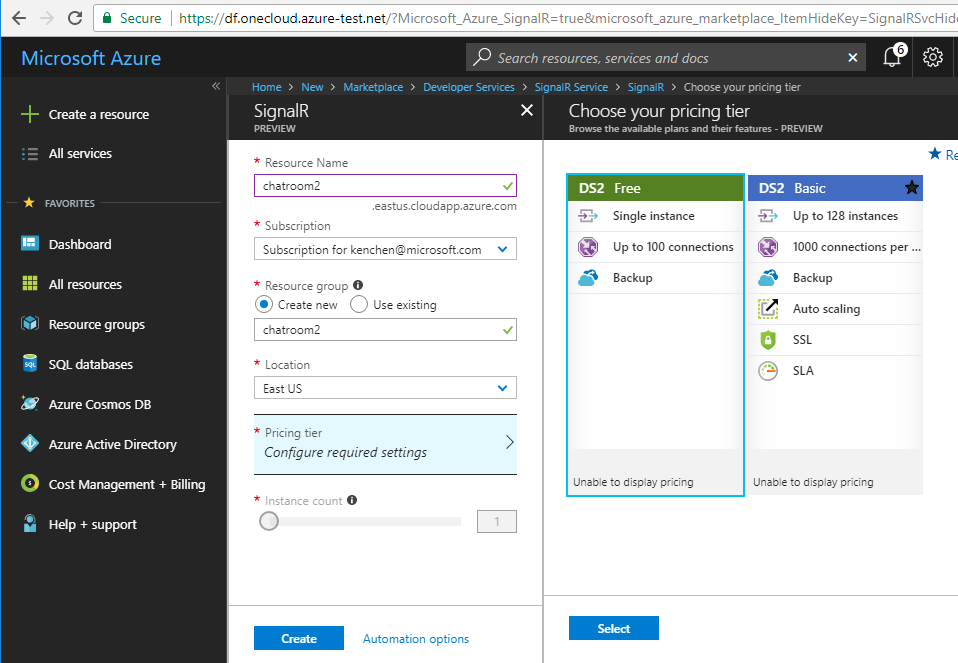
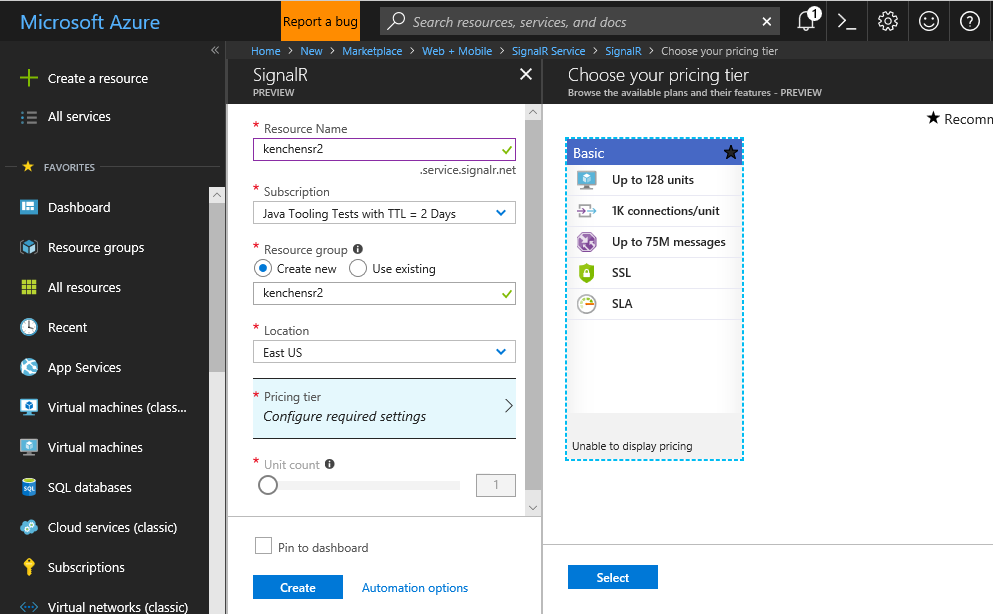
update images to prod environment

diff --git a/tutorials/chat-room-service.md b/tutorials/chat-room-service.md
@@ -4,11 +4,9 @@ In last tutorial you have learned how to use SignalR Core to build a chat room a
 
 ## Create a SignalR Service
 
-> [TODO] The screenshots below are based on dogfooding environment. To be replaced with production screenshots later.
-
 First let's create a SignalR service on Azure.
 
-1. Open Azure portal, click "Create a resource" and find "SignalR Service".
+1. Open Azure portal, click "Create a resource" and find "SignalR Service" in "Web + Mobile".
 
    ![signalr-1](images/signalr-1.png)
 
@@ -22,6 +20,8 @@ First let's create a SignalR service on Azure.
    
    * Free: which can handle 100 connections at the same time and can send and receive one million messages in a month.
    * Basic: which has 1000 concurrent connections and 75 millions message per month limit for *one unit*. You can scale up to 10 units for a single service instance and you'll be charged by the number of units you use.
+
+   > In private preview, only basic tier with one unit is supported.
 
 3. Click "Create", your SignalR service will be created in a few minutes.
 
